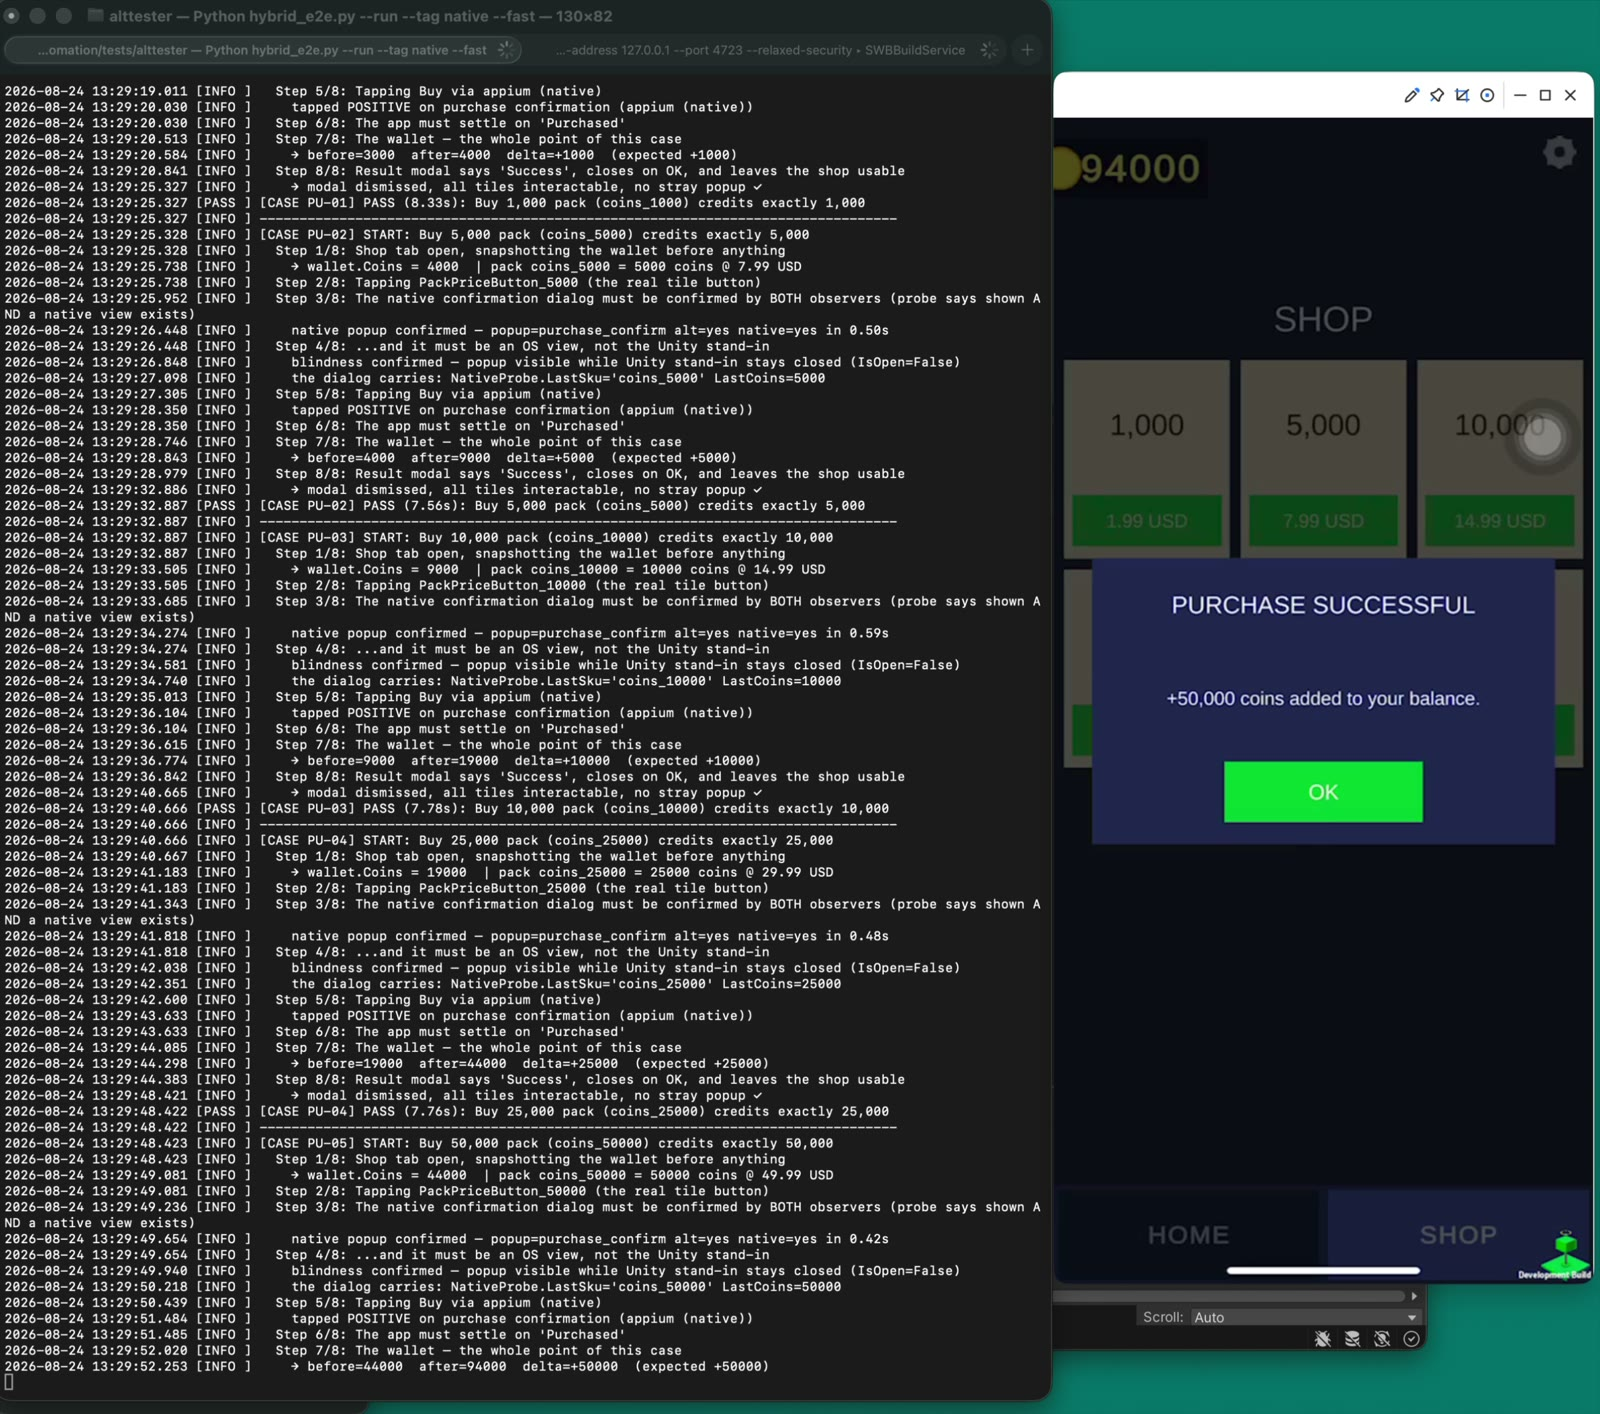
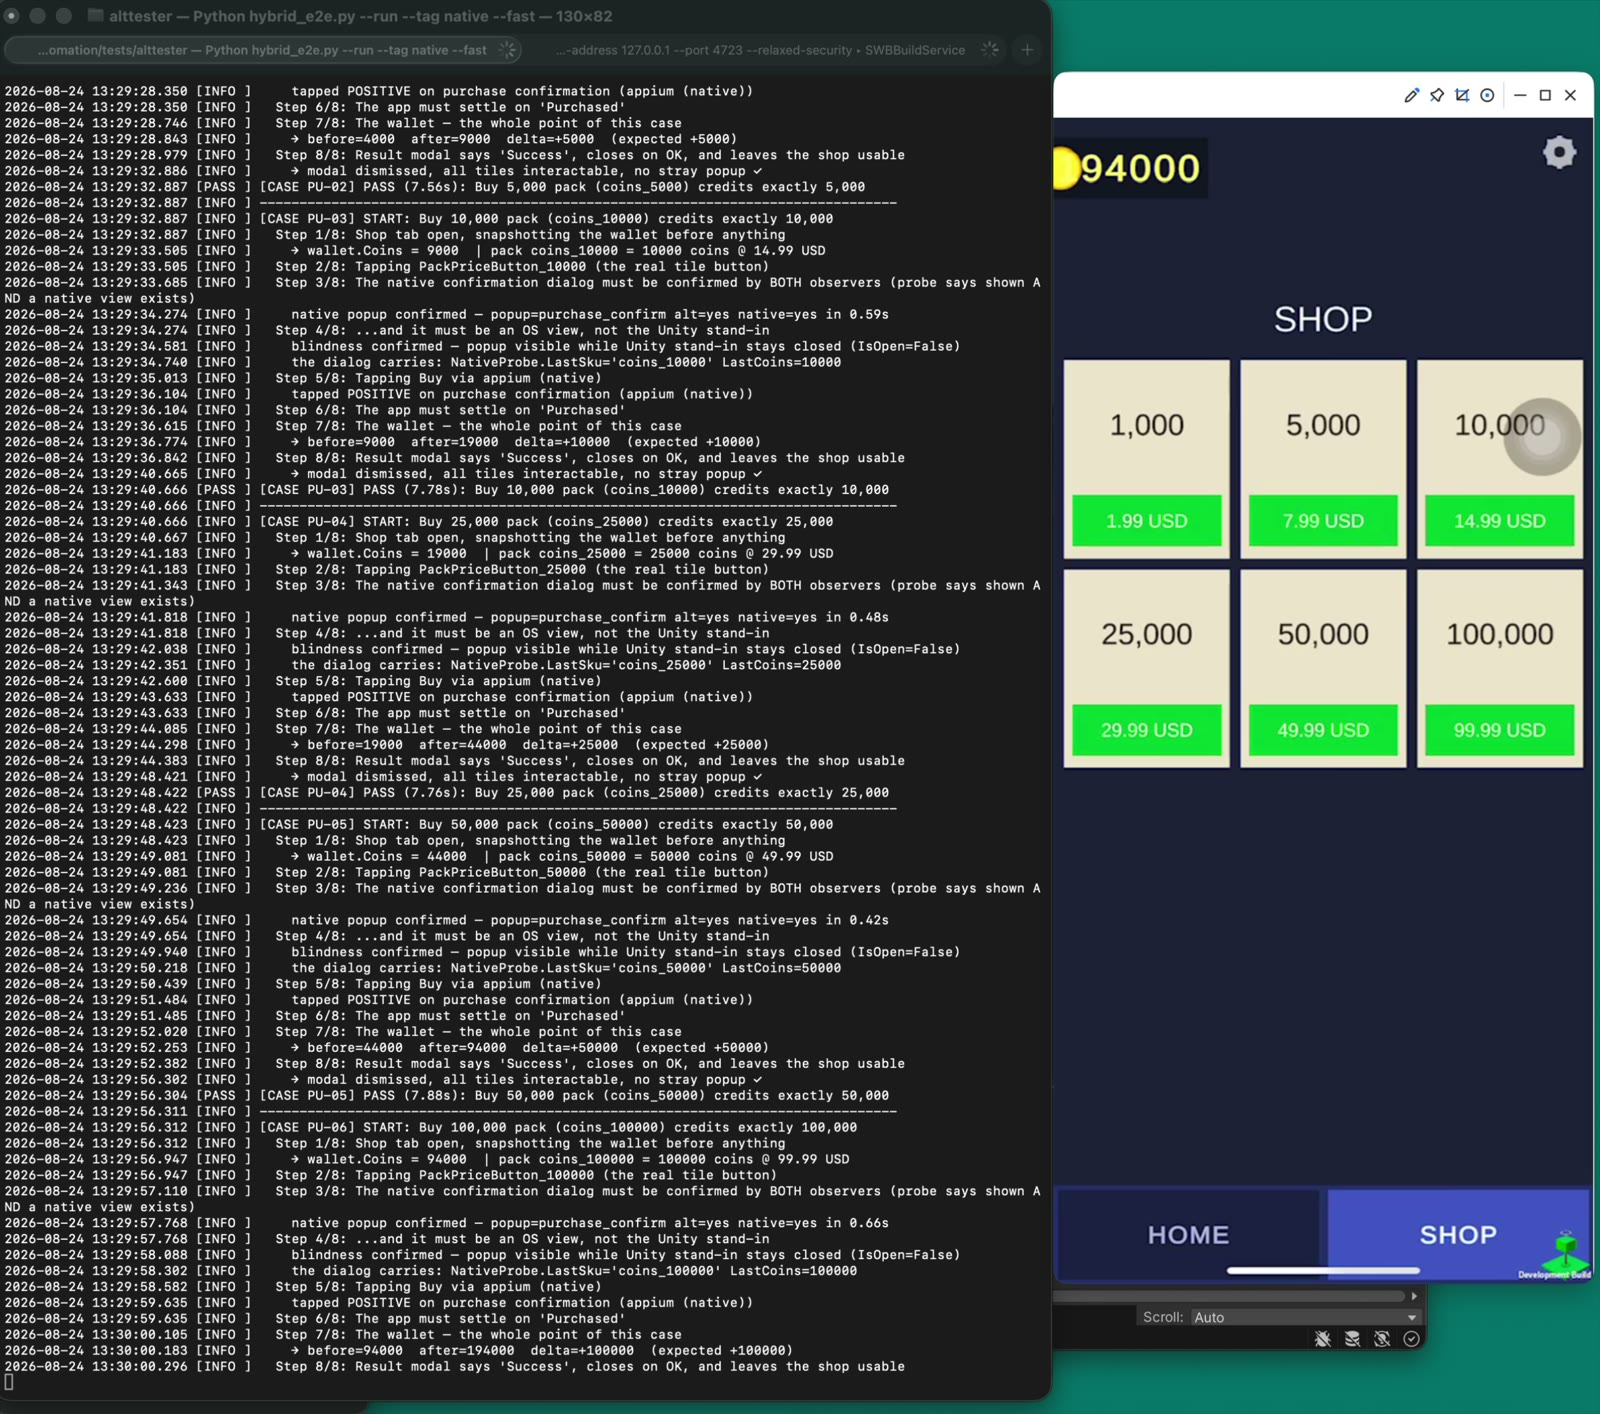
Minor-FIX

diff --git a/projects/otomasyon/index.html b/projects/otomasyon/index.html
@@ -201,8 +201,8 @@
     <span data-lang="tr">Dört faz — kavram kanıtından headless CI'a</span><span data-lang="en">Four phases — from proof of concept to headless CI</span>
   </h3>
   <p style="color:var(--ink2);font-size:14.5px;max-width:74ch;margin-bottom:8px">
-    <span data-lang="tr">Bu altyapı tek seferde yazılmadı. Dört faz halinde evrildi ve her faz, bir sonrakine geçmeden önce kendi PoC raporu, cihaz üzerinde video kaydı ve ölçülmüş sonucuyla kapatıldı. Kapsam her fazda katlandı: 1 akıştan 116 senaryoya, oradan hibrit 164'e — ve bugün hepsini insansız koşan bir CI hattına.</span>
-    <span data-lang="en">This rig wasn't written in one go. It evolved in four phases, and each phase was closed out with its own PoC report, an on-device video recording and a measured result before the next one started. Scope compounded every phase: from 1 flow to 116 cases, then to the hybrid 164 — and today, a CI line that runs all of it unattended.</span>
+    <span data-lang="tr">Bu altyapı tek seferde yazılmadı. Dört faz halinde evrildi ve her faz, bir sonrakine geçmeden önce kendi PoC raporu, cihaz üzerinde video kaydı ve ölçülmüş sonucuyla kapatıldı. Kapsam her fazda katlandı — ve bugün hepsi insansız koşuyor.</span>
+    <span data-lang="en">This rig wasn't written in one go. It evolved in four phases, and each phase was closed out with its own PoC report, an on-device video recording and a measured result before the next one started. Scope compounded every phase — and today all of it runs unattended.</span>
   </p>
 
   <div class="tablewrap">
@@ -253,7 +253,7 @@
     <span data-lang="en">The first question is the most basic: can a Unity mobile game be played and verified unattended, through its APK on a real device? I wrote a 10-level dummy puzzle game and integrated the AltTester SDK. The Python script doesn't tap random coordinates: it <b style="color:var(--ink)">reads the game's internal data</b> — piece colors, target cells, rail state — picks the right piece and solves each level logically. All 10 levels completed unattended on a Samsung Z Fold5, every step logged and screenshotted.</span>
   </p>
   <div class="gallery">
-    <div class="shot">
+    <div class="shot wide">
       <video autoplay muted loop playsinline preload="metadata" aria-label="Phase 1 autonomous level solving on Z Fold5">
         <source src="../../assets/clips/qa-phase1-run.mp4" type="video/mp4">
       </video>
@@ -263,6 +263,8 @@
         <span data-lang="en">The deciding log on the left, the Z Fold5 on the right. The script solves the level and advances by itself.</span>
       </div>
     </div>
+  </div>
+  <div class="gallery" style="margin-top:0">
     <div class="shot">
       <a href="../../assets/img/qa-phase1-device.jpg" target="_blank" rel="noopener" class="zoom"><img src="../../assets/img/qa-phase1-device.jpg" alt="Terminal log and Z Fold5 solving level 8" loading="lazy"></a>
       <div class="cap">
@@ -290,7 +292,7 @@
     <span data-lang="en">The single flow grew into a structured smoke umbrella: <b style="color:var(--ink)">13 categories, 22 groups, 116 cases</b>. To support it, production-like meta layers were added to the game — a coin wallet (with a flying-coin animation and a credit-before-animation guarantee), a main menu, a settings window (paused via <code>Time.timeScale = 0</code> with a safety net), a Shuffle Booster, end screens, a Leave flow and spam-guards that collapse rapid double-taps into one action. Every category ends with its own baseline reset; three consecutive failures stop the run; random picks replay exactly via <code>--seed</code>. Each run leaves a log, JSON and a single-file offline HTML report. Last full run: <b style="color:var(--ink)">116/116 PASS in 827 s</b>. Most importantly: to prove the green meant something, <b style="color:var(--ink)">13 bugs were deliberately injected on a separate Err-Inject branch — one per category — and all 13 turned their target scenario red.</b> A suite that has never seen red can't be trusted; this one independently showed it could turn red.</span>
   </p>
   <div class="gallery">
-    <div class="shot">
+    <div class="shot wide">
       <video autoplay muted loop playsinline preload="metadata" aria-label="Phase 2 smoke suite driving the settings modal on device">
         <source src="../../assets/clips/qa-phase2-run.mp4" type="video/mp4">
       </video>
@@ -300,6 +302,8 @@
         <span data-lang="en">The suite opens the settings modal, drives each toggle, closes it and verifies the game didn't stay frozen — <code>finalized_smoke.py --fast</code>, on a real Samsung.</span>
       </div>
     </div>
+  </div>
+  <div class="gallery" style="margin-top:0">
     <div class="shot">
       <a href="../../assets/img/qa-phase2-settings.jpg" target="_blank" rel="noopener" class="zoom"><img src="../../assets/img/qa-phase2-settings.jpg" alt="Settings modal driven by the suite with narrated shuffle booster cases" loading="lazy"></a>
       <div class="cap">
@@ -323,11 +327,11 @@
     <span data-lang="tr">Faz 3 — İkinci sürücü ve üç ortam</span><span data-lang="en">Phase 3 — The second driver and three environments</span>
   </h3>
   <p style="color:var(--ink2);font-size:14.5px;max-width:74ch;margin-bottom:18px">
-    <span data-lang="tr">Faz 2'nin suite'i yalnızca Unity'nin çizdiğini görebiliyordu — oysa para native satın alma onayında hareket eder, izin native istemde verilir, state uygulama arka plana atıldığında kaybolur. Faz 3 bu kör noktayı ikinci sürücüyle kapattı; önce 4 kategori / 40 senaryoluk ayrı bir ara runner'da OS yüzeyi tek başına çalışıldı (PlatformOps seam'i, watchdog'lar ve satın alma matrisi orada doğdu), sonra hibrit suite kuruldu. Oyuna gerçek native katman eklendi: Android'de JNI ile <code>AlertDialog</code>, iOS'ta Objective-C ile <code>UIAlertController</code>, Editor'de stand-in. Bir popup artık <b style="color:var(--ink)">iki kaynaktan</b> doğrulanır — ürün kodu “açık” demeli <b>ve</b> ekranda bizim erişilebilirlik id'mizi taşıyan native görünüm olmalı; ikisinden yalnız birinin doğru olması bulgu sayılır. Sonuç bu sayfanın geri kalanının konusu: 18 kategori, 164 senaryo, 744 adım; iOS, Android ve cihazsız Editor'de filtresiz tam koşum.</span>
-    <span data-lang="en">Phase 2's suite could only see what Unity draws — yet money moves in a native purchase confirmation, permission is granted in a native prompt, state is lost when the app is backgrounded. Phase 3 closed that blind spot with a second driver; the OS surface was first worked alone in a separate interim runner of 4 categories / 40 cases (the PlatformOps seam, the watchdogs and the purchase matrix were born there), then the hybrid suite was built. The game gained a genuinely native layer: <code>AlertDialog</code> via JNI on Android, <code>UIAlertController</code> via Objective-C on iOS, a stand-in in the Editor. A popup is now verified <b style="color:var(--ink)">from two sources</b> — product code must say “open” <b>and</b> a native view carrying our accessibility id must be on screen; only one of the two being true counts as a finding. The result is what the rest of this page is about: 18 categories, 164 cases, 744 steps; unfiltered full runs on iOS, Android and the device-less Editor.</span>
+    <span data-lang="tr">Faz 2'nin suite'i yalnızca Unity'nin çizdiğini görebiliyordu — oysa para native satın alma onayında hareket eder, izin native istemde verilir, state uygulama arka plana atıldığında kaybolur. Faz 3 bu kör noktayı ikinci sürücüyle kapattı; önce 4 kategori / 40 senaryoluk ayrı bir ara runner'da OS yüzeyi tek başına çalışıldı (PlatformOps seam'i, watchdog'lar ve satın alma matrisi orada doğdu), sonra hibrit suite kuruldu. Oyuna gerçek native katman eklendi: Android'de JNI ile <code>AlertDialog</code>, iOS'ta Objective-C ile <code>UIAlertController</code>, Editor'de stand-in. Bir popup artık <b style="color:var(--ink)">iki kaynaktan</b> doğrulanır — ürün kodu “açık” demeli <b>ve</b> ekranda bizim erişilebilirlik id'mizi taşıyan native görünüm olmalı; ikisinden yalnız birinin doğru olması bulgu sayılır. Sonucu — hibrit suite'i ve üç ortamdaki tam koşumlarını — bu sayfanın geri kalanı anlatıyor.</span>
+    <span data-lang="en">Phase 2's suite could only see what Unity draws — yet money moves in a native purchase confirmation, permission is granted in a native prompt, state is lost when the app is backgrounded. Phase 3 closed that blind spot with a second driver; the OS surface was first worked alone in a separate interim runner of 4 categories / 40 cases (the PlatformOps seam, the watchdogs and the purchase matrix were born there), then the hybrid suite was built. The game gained a genuinely native layer: <code>AlertDialog</code> via JNI on Android, <code>UIAlertController</code> via Objective-C on iOS, a stand-in in the Editor. A popup is now verified <b style="color:var(--ink)">from two sources</b> — product code must say “open” <b>and</b> a native view carrying our accessibility id must be on screen; only one of the two being true counts as a finding. The result — the hybrid suite and its full runs across three environments — is what the rest of this page tells.</span>
   </p>
   <div class="gallery">
-    <div class="shot">
+    <div class="shot wide">
       <video autoplay muted loop playsinline preload="metadata" aria-label="Phase 3 native purchase matrix running on iPhone">
         <source src="../../assets/clips/qa-phase3-purchase.mp4" type="video/mp4">
       </video>
@@ -337,6 +341,8 @@
         <span data-lang="en">Each pack in turn: the native confirmation appears, Appium answers it, AltTester measures the wallet delta from inside Unity — <code>before=44000 after=94000 delta=+50000</code>.</span>
       </div>
     </div>
+  </div>
+  <div class="gallery" style="margin-top:0">
     <div class="shot">
       <a href="../../assets/img/qa-phase3-purchase.jpg" target="_blank" rel="noopener" class="zoom"><img src="../../assets/img/qa-phase3-purchase.jpg" alt="Purchase successful modal with narrated purchase matrix log" loading="lazy"></a>
       <div class="cap">
@@ -349,8 +355,8 @@
       <a href="../../assets/img/qa-phase3-coldstart.jpg" target="_blank" rel="noopener" class="zoom"><img src="../../assets/img/qa-phase3-coldstart.jpg" alt="Cold start after process kill with a purchase dialog left open" loading="lazy"></a>
       <div class="cap">
         <b><span data-lang="tr">En zor soru: yarıda kesilen para</span><span data-lang="en">The hardest question: money interrupted mid-flight</span></b>
-        <span data-lang="tr"><code>LC-07</code>: satın alma diyaloğu açıkken süreç öldürülür. Soğuk açılışta suite üç şeyi kanıtlar — ekranda hayalet native görünüm kalmadı, uygulama satın almayı hâlâ tutmuyor ve <b>kimsenin onaylamadığı satın alma cüzdana yazılmadı</b>.</span>
-        <span data-lang="en"><code>LC-07</code>: the process is killed with a purchase dialog up. On cold start the suite proves three things — no ghost native view survived, the app no longer holds the purchase, and <b>a purchase nobody confirmed was never credited</b>.</span>
+        <span data-lang="tr"><code>LC-07</code>: satın alma diyaloğu açıkken süreç öldürülür. Soğuk açılışta suite üç şeyi kanıtlar — ekranda hayalet native görünüm kalmadı, uygulama satın almayı hâlâ tutmuyor ve <b>kimsenin onaylamadığı satın alma cüzdana yazılmadı.</b></span>
+        <span data-lang="en"><code>LC-07</code>: the process is killed with a purchase dialog up. On cold start the suite proves three things — no ghost native view survived, the app no longer holds the purchase, and <b>a purchase nobody confirmed was never credited.</b></span>
       </div>
     </div>
   </div>
@@ -360,8 +366,8 @@
     <span data-lang="tr">Faz 4 — İnsanı döngüden çıkarmak</span><span data-lang="en">Phase 4 — Taking the human out of the loop</span>
   </h3>
   <p style="color:var(--ink2);font-size:14.5px;max-width:74ch">
-    <span data-lang="tr">Bugünkü faz: her şeyin insansız koşması. Unity <b style="color:var(--ink)">batch-mode + <code>-nographics</code></b> ile başsız derlenir — Android APK'sı, Unity→Xcode→imzalı iOS IPA'sı ve Editor koşumu aynı script ailesinden çıkar. GitHub Actions, kendi Mac'imdeki self-hosted runner'a bağlanır; koşumlar zamanlanmış, elle tetiklenen (<code>workflow_dispatch</code> girdileriyle lane/cihaz/hız/filtre seçilerek) ya da push ile başlar ve gerçek telefona kadar iner. Aşağıdaki CI/CD bölümü bu fazın ayrıntısıdır — beş fazlı lane script'i, iptalde bile temizleyen reset ve anlamlı çıkış kodlarıyla.</span>
-    <span data-lang="en">The current phase: everything runs unattended. Unity builds headless in <b style="color:var(--ink)">batch mode + <code>-nographics</code></b> — the Android APK, the Unity→Xcode→signed iOS IPA and the Editor run all come from the same script family. GitHub Actions connects to a self-hosted runner on my own Mac; runs start on a schedule, by hand (<code>workflow_dispatch</code> inputs picking lane/device/pace/filter) or on push, and reach all the way down to a real phone. The CI/CD section below is this phase in detail — the five-phase lane script, the reset that cleans up even on cancellation, and exit codes that mean something.</span>
+    <span data-lang="tr">Bugünkü faz: her şeyin insansız koşması. Unity <b style="color:var(--ink)">batch-mode + <code>-nographics</code></b> ile başsız derlenir — Android APK'sı, Unity→Xcode→imzalı iOS IPA'sı ve Editor koşumu aynı script ailesinden çıkar. GitHub Actions, kendi Mac'imdeki self-hosted runner'a bağlanır; koşumlar zamanlanmış, elle tetiklenen ya da push ile başlar ve gerçek telefona kadar iner. Aşağıdaki CI/CD bölümü bu fazın ayrıntısıdır — beş fazlı lane script'i, iptalde bile temizleyen reset ve anlamlı çıkış kodlarıyla.</span>
+    <span data-lang="en">The current phase: everything runs unattended. Unity builds headless in <b style="color:var(--ink)">batch mode + <code>-nographics</code></b> — the Android APK, the Unity→Xcode→signed iOS IPA and the Editor run all come from the same script family. GitHub Actions connects to a self-hosted runner on my own Mac; runs start on a schedule, by hand or on push, and reach all the way down to a real phone. The CI/CD section below is this phase in detail — the five-phase lane script, the reset that cleans up even on cancellation, and exit codes that mean something.</span>
   </p>
 </div>
 </section>
@@ -498,8 +504,8 @@
     <span data-lang="tr">Faz 4 · CI/CD — gerçek cihazlarda, ücretsiz</span><span data-lang="en">Phase 4 · CI/CD — on real devices, for free</span>
   </h3>
   <p style="color:var(--ink2);font-size:14.5px;max-width:74ch">
-    <span data-lang="tr">Cihaz bulutlarının kalıcı ücretsiz katmanı yok; Firebase Test Lab yalnızca Espresso/XCTest türü koşumları kabul ediyor ve host tarafında bir Python süreci çalıştıramıyor — üstelik AltTester bağlantıyı <b style="color:var(--ink)">cihazdan host'a doğru</b> kuruyor, yani bir veri merkezindeki telefonun benim makinemin <code>:13000</code> portuna rotası yok. Bu yüzden kendi Mac'imi self-hosted runner yaptım. Derlemeler Unity'nin batch-mode + <code>-nographics</code> başsız hattından çıkar: Android APK'sı, imzalı iOS IPA'sı ve Editor koşumu — üçü de ekransız, insansız.</span>
-    <span data-lang="en">Device clouds have no permanent free tier; Firebase Test Lab only accepts Espresso/XCTest-shaped runs and cannot host a Python process — and AltTester dials <b style="color:var(--ink)">out from device to host</b>, so a handset in someone's datacentre has no route to my machine's <code>:13000</code>. So I turned my own Mac into a self-hosted runner. Builds come out of Unity's batch-mode + <code>-nographics</code> headless line: the Android APK, the signed iOS IPA and the Editor run — all three screenless, unattended.</span>
+    <span data-lang="tr">Cihaz bulutlarının kalıcı ücretsiz katmanı yok; Firebase Test Lab yalnızca Espresso/XCTest türü koşumları kabul ediyor ve host tarafında bir Python süreci çalıştıramıyor — üstelik AltTester bağlantıyı <b style="color:var(--ink)">cihazdan host'a doğru</b> kuruyor, yani bir veri merkezindeki telefonun benim makinemin <code>:13000</code> portuna rotası yok. Bu yüzden kendi Mac'imi self-hosted runner yaptım.</span>
+    <span data-lang="en">Device clouds have no permanent free tier; Firebase Test Lab only accepts Espresso/XCTest-shaped runs and cannot host a Python process — and AltTester dials <b style="color:var(--ink)">out from device to host</b>, so a handset in someone's datacentre has no route to my machine's <code>:13000</code>. So I turned my own Mac into a self-hosted runner.</span>
   </p>
 
   <div class="grid3" style="margin:22px 0">

diff --git a/assets/css/site.css b/assets/css/site.css
@@ -258,6 +258,7 @@ td.num,th.num{font-family:var(--mono); text-align:right; white-space:nowrap}
 .shot{background:var(--bg2); border:1px solid var(--line); border-radius:10px; overflow:hidden}
 .shot img{width:100%; border-bottom:1px solid var(--line); display:block}
 .shot video{width:100%; border-bottom:1px solid var(--line); display:block; background:#000}
+.shot.wide video{max-height:620px; object-fit:contain}
 .shot a.zoom{display:block; cursor:zoom-in}
 .shot a.zoom:hover{opacity:.92}
 .shot .cap{padding:12px 15px; font-size:13px; color:var(--ink2); line-height:1.45}
